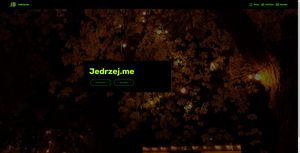
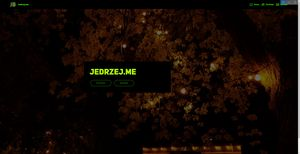
create github pages

Changed region(s): [[0.3, 0.4183, 0.48, 0.4967], [0.93, 0.0, 1.0, 0.0523]]

diff --git a/kontakt.html b/kontakt.html
@@ -81,7 +81,7 @@
     </nav>
 </section>
 
-<section class="engine"><a href="https://mobirise.info/m">web design templates</a></section><section class="mbr-section form1 cid-sDfN1jFDrK" id="form1-1g">
+<section class="engine"><a href="https://mobirise.info/y">free html website templates</a></section><section class="mbr-section form1 cid-sDfN1jFDrK" id="form1-1g">
 
     
 
@@ -98,7 +98,7 @@
         <div class="row justify-content-center">
             <div class="media-container-column col-lg-8" data-form-type="formoid">
                 <!---Formbuilder Form--->
[2 lines of base64/hex data omitted]
                     <div class="row">
                         <div hidden="hidden" data-form-alert="" class="alert alert-success col-12">Dziękujemy za wypełnienie formularza!</div>
                         <div hidden="hidden" data-form-alert-danger="" class="alert alert-danger col-12">

diff --git a/index.html b/index.html
@@ -81,11 +81,11 @@
     </nav>
 </section>
 
-<section class="engine"><a href="https://mobirise.info/d">website maker</a></section><section class="header10 cid-smbDFsfmVv mbr-fullscreen mbr-parallax-background" id="header10-j">
+<section class="engine"><a href="https://mobirise.info/v">free html templates</a></section><section class="header10 cid-smbDFsfmVv mbr-fullscreen mbr-parallax-background" id="header10-j">
 
     
 
-    <div class="mbr-overlay" style="opacity: 0.6; background-color: rgb(0, 0, 0);">
+    <div class="mbr-overlay" style="opacity: 0.5; background-color: rgb(0, 0, 0);">
     </div>
 
     <div class="container">

diff --git a/regulamin.html b/regulamin.html
@@ -81,7 +81,7 @@
     </nav>
 </section>
 
-<section class="engine"><a href="https://mobirise.info/v">html templates</a></section><section class="mbr-section content4 cid-sCwHhaLa0b" id="content4-13">
+<section class="engine"><a href="https://mobirise.info/f">simple site builder</a></section><section class="mbr-section content4 cid-sCwHhaLa0b" id="content4-13">
 
     
 

diff --git a/assets/mobirise/css/mbr-additional.css b/assets/mobirise/css/mbr-additional.css
@@ -1117,7 +1117,7 @@ section.lazy-placeholder:after {
   color: #afff00 !important;
 }
 .cid-smbDFsfmVv {
-  background-image: url("../../../assets/images/img2072167517-1696x1272.jpg");
+  background-image: url("../../../assets/images/img2072167517-1696x1272-2-1696x982.jpg");
 }
 .cid-smbDFsfmVv .mbr-section-subtitle {
   letter-spacing: .2rem;

diff --git a/portfolio.html b/portfolio.html
@@ -82,7 +82,7 @@
     </nav>
 </section>
 
-<section class="engine"><a href="https://mobirise.info/w">free html5 templates</a></section><section class="cid-sDfO9z5RaZ" id="header2-1i">
+<section class="engine"><a href="https://mobirise.info/d">free web maker</a></section><section class="cid-sDfO9z5RaZ" id="header2-1i">
 
     
 
